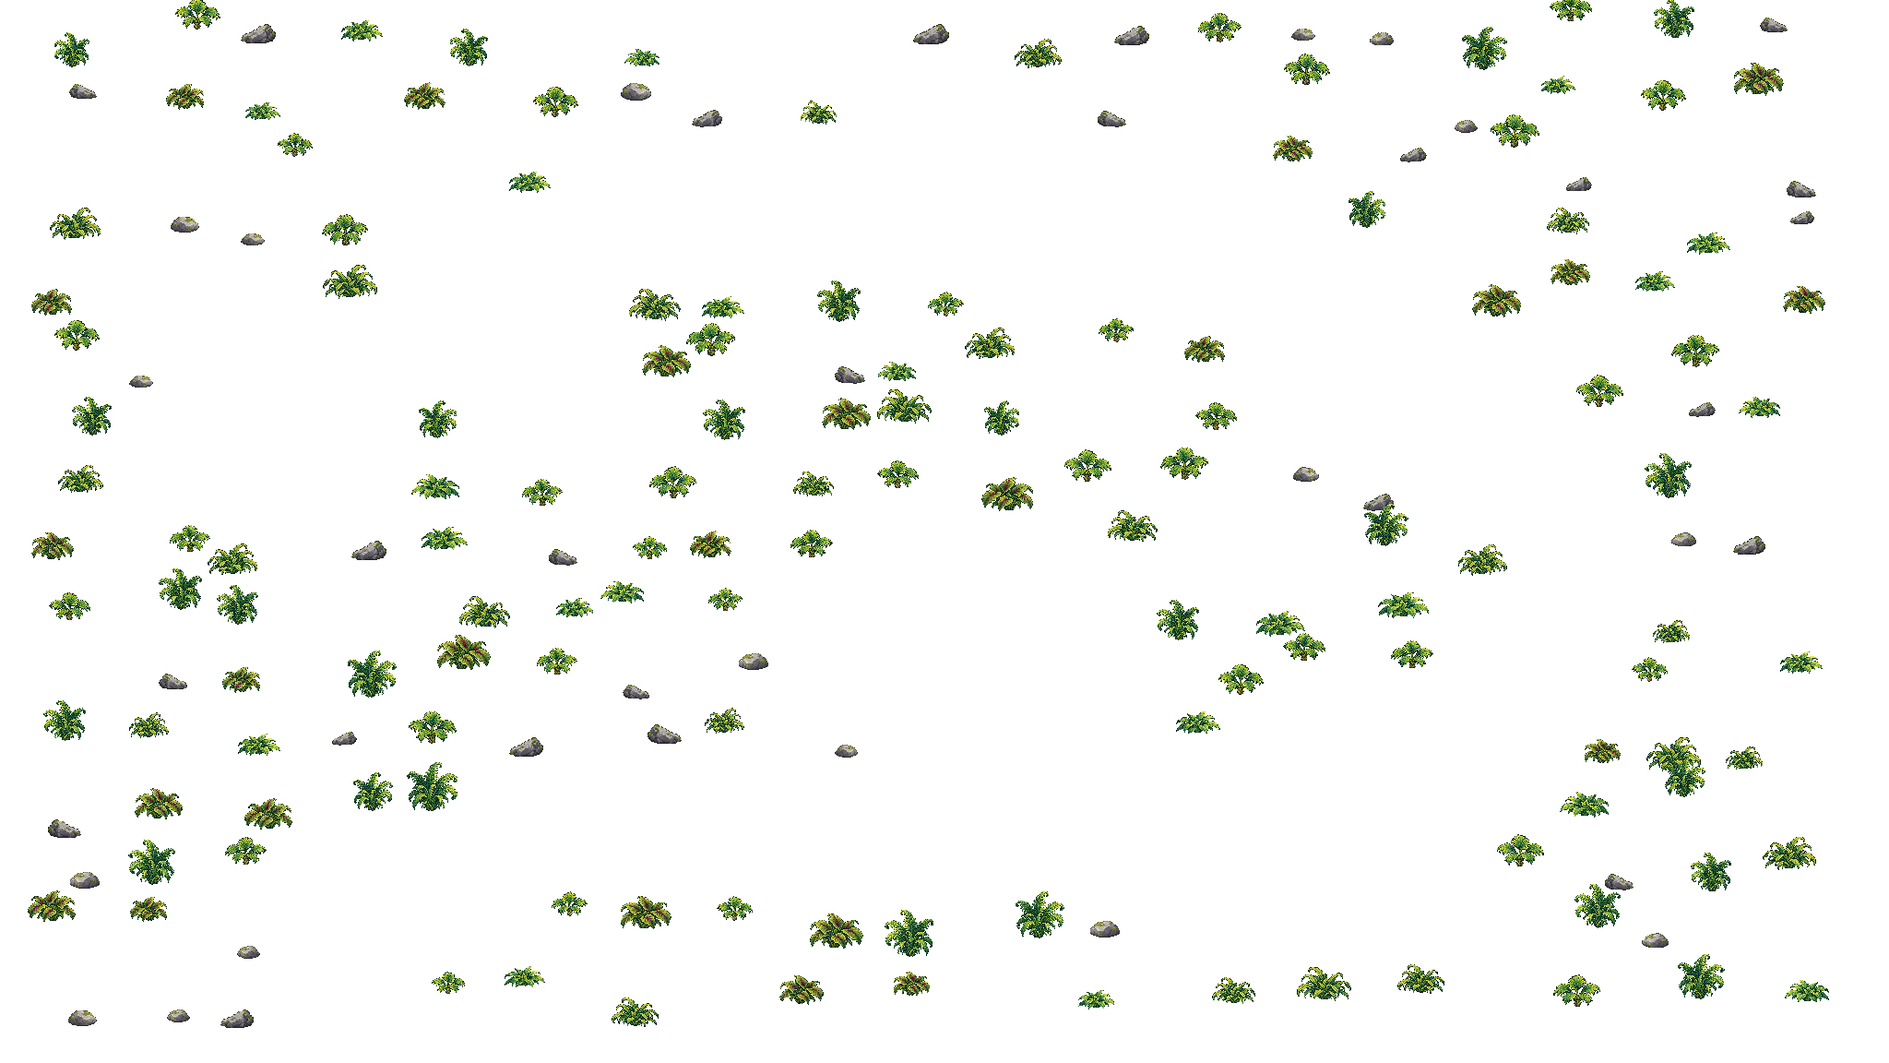
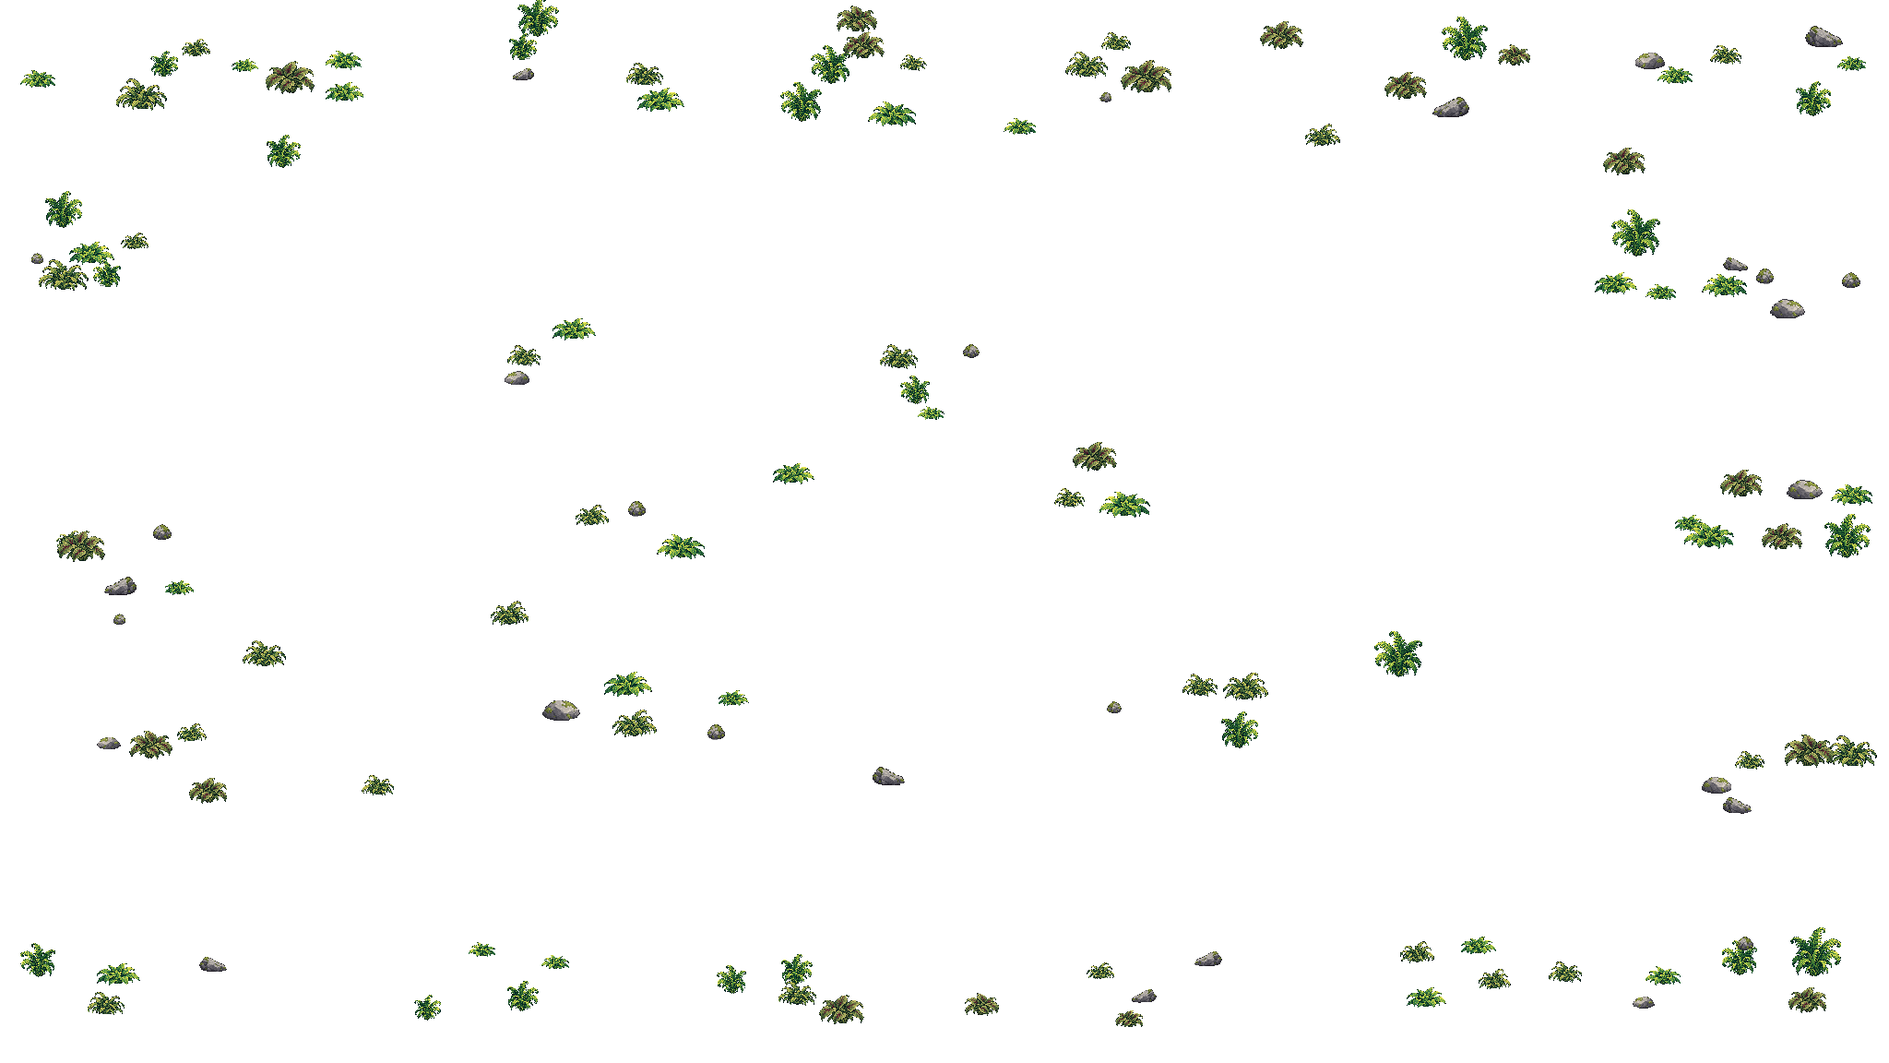
feat: humanizar direção visual do bioma

diff --git a/index.html b/index.html
@@ -8,8 +8,8 @@
     <meta name="description" content="Ajude o Sapo do Chapéu de Palha a atravessar quatro regiões da manhã, saltar obstáculos e capturar besouros e abelhas antes que eles se aproximem.">
     <link rel="icon" type="image/png" href="assets/img/sapo-capa.png">
     <link rel="preload" as="image" href="assets/img/menu-floresta-amanhecer-v1.png">
-    <link rel="stylesheet" href="assets/css/style.css?v=123">
-    <script src="assets/js/script.js?v=123" defer></script>
+    <link rel="stylesheet" href="assets/css/style.css?v=124">
+    <script src="assets/js/script.js?v=124" defer></script>
     <title>Sapo do Chapéu de Palha — Beta</title>
 </head>
 <body class="is-app-loading has-indie-intro">
@@ -44,13 +44,13 @@
         <div class="indie-intro__panel">
             <div class="indie-intro__pixels" aria-hidden="true"><i></i><i></i><i></i><i></i></div>
             <p class="indie-intro__eyebrow">Antes de começar</p>
-            <h1 id="indie-intro-title">Um jogo indie.<br>Feito com cuidado.</h1>
+            <h1 id="indie-intro-title">Um jogo feito<br>detalhe por detalhe.</h1>
             <div class="indie-intro__copy" id="indie-intro-copy">
-                <p>Hoje parece que tudo é feito por IA: alguém escreve um prompt, publica e logo deixa o projeto para trás. <strong>Este jogo não nasceu assim.</strong></p>
-                <p>A <strong>Natanashi Studios</strong> é o codinome de uma pequena startup indie que nasce deste projeto. Por trás dela existe uma paixão por programação cultivada desde 2018, praticando Python e JavaScript e criando sites e jogos simples.</p>
-                <p>A IA ajuda a construir este jogo, mas cada código, personagem, cenário e animação é revisto, testado e ajustado com muita dedicação. Ele não é só um jogo gerado por IA para tentar ganhar dinheiro.</p>
-                <aside>Claro que eu também quero ganhar dinheiro com ele, se for possível — ninguém vive só de capturar besouros, né? <span>kkkkk</span></aside>
-                <p>Mas, antes de qualquer coisa, este projeto existe por diversão, curiosidade e gostos certamente humanos.</p>
+                <p><strong>Sapo do Chapéu de Palha</strong> começou como uma ideia pequena e foi crescendo entre testes, erros, desenhos refeitos e muitas partidas.</p>
+                <p><strong>Natanashi Studios</strong> é o nome que reúne esse trabalho. A programação faz parte dessa história desde 2018, começando com Python, JavaScript, sites e jogos simples.</p>
+                <p>Ferramentas de IA também ajudam no processo, mas não decidem o jogo. Código, personagens, cenários, animações e dificuldade são revistos e ajustados até combinarem com a direção do projeto.</p>
+                <aside>E se um dia o jogo ajudar a pagar as contas, ótimo. Até um sapo aventureiro precisa de orçamento.</aside>
+                <p>Por enquanto, a prioridade é fazer algo pessoal, divertido e cada vez melhor de jogar.</p>
             </div>
             <button class="indie-intro__continue" id="indie-intro-continue" type="button" onclick="closeIndieIntro()" disabled>Carregando...</button>
         </div>
@@ -202,7 +202,7 @@
                             <nav class="main-menu-list" aria-label="Menu principal">
                                 <button class="wood-button wood-button--primary" type="button" data-menu-target="play" onclick="showMenuScreen('play')">
                                     <span class="wood-button__mark" aria-hidden="true">▶</span>
-                                    <span><strong>Jogar</strong><small>Começar uma nova jornada</small></span>
+                                    <span><strong>Jogar</strong><small>Escolher um diário e continuar</small></span>
                                 </button>
                                 <button class="wood-button" type="button" data-menu-target="profile" onclick="showMenuScreen('profile')">
                                     <span class="wood-button__mark" aria-hidden="true">●</span>
@@ -214,7 +214,7 @@
                                 </button>
                                 <button class="wood-button" type="button" data-menu-target="credits" onclick="showMenuScreen('credits')">
                                     <span class="wood-button__mark" aria-hidden="true">★</span>
-                                    <span><strong>Créditos</strong><small>Quem está construindo esta aventura</small></span>
+                                    <span><strong>Créditos</strong><small>Equipe, ferramentas e versão atual</small></span>
                                 </button>
                             </nav>
                         </section>
@@ -228,7 +228,7 @@
                                 <article class="credits-studio">
                                     <small>Criação e direção</small>
                                     <strong>Natanashi Studios</strong>
-                                    <p>Um projeto indie brasileiro construído com programação, testes, ajustes visuais e muita vontade de criar um universo próprio.</p>
+                                    <p>Um projeto indie brasileiro em desenvolvimento, testado diretamente no navegador e ajustado versão por versão.</p>
                                 </article>
                                 <div class="credits-grid">
                                     <article><span>Desenvolvimento</span><strong>HTML, CSS e JavaScript</strong></article>
@@ -242,7 +242,7 @@
 
                         <section class="menu-screen" data-menu-screen="play" aria-labelledby="play-menu-title" hidden>
                             <div class="menu-section-heading">
-                                <span>Escolha seu caminho</span>
+                                <span>Seleção de modo</span>
                                 <h2 id="play-menu-title">Modos de jogo</h2>
                             </div>
                             <div class="mode-grid">
@@ -292,7 +292,7 @@
                             <div class="menu-section-heading character-heading">
                                 <span>Novo diário</span>
                                 <h2 id="character-creator-title">Crie seu viajante</h2>
-                                <p>Dê um nome ao sapinho e escolha as cores que acompanharão esta história.</p>
+                                <p>Dê um nome ao sapinho e escolha as cores do corpo e da língua.</p>
                             </div>
                             <form class="character-creator" id="character-creator-form" novalidate>
                                 <div class="skin-preview character-preview" aria-label="Prévia do personagem">
@@ -367,8 +367,8 @@
                                                 <image href="assets/img/mapa-textura-estrada-v1.png" width="5.4" height="5.4" preserveAspectRatio="xMidYMid slice"></image>
                                             </pattern>
                                         </defs>
-                                        <path class="world-route__edge" d="M 18 90 C 21 86 25 82 29 80 C 41 78 56 83 68 82 C 77 78 82 68 84 57 C 83 45 76 33 68 27 C 57 21 47 19 37 20 C 27 24 19 34 13 46"></path>
-                                        <path class="world-route__trail" stroke="url(#world-road-texture)" d="M 18 90 C 21 86 25 82 29 80 C 41 78 56 83 68 82 C 77 78 82 68 84 57 C 83 45 76 33 68 27 C 57 21 47 19 37 20 C 27 24 19 34 13 46"></path>
+                                        <path class="world-route__edge" d="M 18 90 C 21 86 25 82 29 80 C 38 77 46 83 55 80 C 60 79 65 85 68 82 C 76 78 80 69 84 57 C 86 49 79 40 78 36 C 76 31 72 28 68 27 C 60 22 53 22 47 21 C 43 20 40 18 37 20 C 30 22 28 28 23 32 C 19 36 17 42 13 46"></path>
+                                        <path class="world-route__trail" stroke="url(#world-road-texture)" d="M 18 90 C 21 86 25 82 29 80 C 38 77 46 83 55 80 C 60 79 65 85 68 82 C 76 78 80 69 84 57 C 86 49 79 40 78 36 C 76 31 72 28 68 27 C 60 22 53 22 47 21 C 43 20 40 18 37 20 C 30 22 28 28 23 32 C 19 36 17 42 13 46"></path>
                                     </svg>
 
                                     <span class="world-prop world-prop--plant world-prop--plant-small" style="--prop-x: 10%; --prop-y: 18%; --prop-width: 6.6%; --prop-depth: 18;"><img data-map-src="assets/img/mapa-planta-rasteira-v1.png" alt="" draggable="false"></span>

diff --git a/assets/css/style.css b/assets/css/style.css
@@ -2280,14 +2280,14 @@ kbd {
 }
 
 .world-route__edge {
-    stroke: #55743a;
-    stroke-width: 72px;
-    opacity: 0.82;
+    stroke: #5d7840;
+    stroke-width: 70px;
+    opacity: 0.72;
 }
 
 .world-route__trail {
-    stroke-width: 54px;
-    filter: drop-shadow(0 3px 0 rgba(72, 70, 33, 0.22));
+    stroke-width: 52px;
+    filter: drop-shadow(0 2px 0 rgba(72, 70, 33, 0.2));
 }
 
 .world-prop {

diff --git a/DESIGN.md b/DESIGN.md
@@ -85,11 +85,11 @@ Desktop uses a restrained soft rectangle around the stage; the mobile stage reac
 
 All actions use native buttons with hover, active, focus-visible, disabled, and touch states. The overlay preserves one primary action and is reused for pause without resetting the current run. Mobile keeps both Jump and Tongue targets at least 60px tall. The tongue is a separate transparent overlay containing only the tongue, anchored by shared mouth coordinates and rendered behind the frog. Activating it temporarily swaps the runner to a same-scale, mouth-open pose, then returns to the current motion sheet. Captured flying insects lock to the exact hit point on the extended tongue, remain there during its held beat, follow the tongue geometry only when it retracts, and disappear at the mouth under a single bright swallowing accent. On the ground, the frog deliberately runs upright like a cartoon person; its professional eight-frame cycle follows contact, down, passing and up poses twice, with opposite arms and legs. A player-triggered jump changes to natural frog biomechanics and selects dedicated takeoff, rise, apex, fall and landing poses according to vertical velocity. All sheets preserve the same identity, scale, white muzzle, eye, nose and straw hat. Flying beetles are hostile and capturable: golden groups keep a compact flight line while teal-violet beetles traverse a broad readable lane from the upper sky to just above the track. Some teal-violet beetles use a triangular up-and-down route with a restrained horizontal drift, forming a visible zigzag that still leaves enough reaction time for jumping, ducking under or attacking with the tongue. Golden-brown bees are single capturable hunters: they approach in a high zigzag, display a bright 440ms targeting pulse, then commit to a fast diagonal sting aimed at the frog's previous position. The dive is fixed once launched, so jumping or landing remains a fair dodge, and obstacle spawning is delayed around the encounter. Ground beetles are black, wingless, fast four-frame obstacles that must be jumped and never react to the tongue. Score blocks reserve stable width to prevent movement. Compact mossy rocks, wooden wheels and ground beetles share one runtime obstacle system but keep distinct silhouettes, forgiving collision insets, speeds and point values. Static rocks move at exactly the same rate as the ground texture; wheels and ground beetles add visible locomotion. Moving moss platforms are non-damaging surfaces: the frog can land on their top, ride briefly and jump again. The complete route lasts 120 seconds, changes regions at fixed elapsed-time milestones and raises speed and spawn pressure gradually under capped limits so every obstacle remains avoidable. During the final stretch, normal spawning gives way to the Super Abelha Monstro: a crownless, dark orange-and-black pixel-art boss with six hooked legs, battered wings and a large stinger. She releases ordinary diving bees while flying high, then visibly tires and descends into tongue range. Only those low tired windows accept damage, the dedicated compact health bar reports five required hits, and every successful hit wakes her into a short visible rise before she resumes the high-flight attack cycle. After the third hit she flashes an anger warning, dives low with her stinger in a jump-avoidable special attack, returns to her high position and resumes releasing bees. Defeating her is required to complete the route.
 
-The opening navigation has four destinations: Play, Profile, Game Settings and Credits. Appearance is no longer a detached main-menu destination; it belongs to creating a story character. Profile provides an offline-editable player name with device-local persistence while account registration, login and synchronization are clearly labeled as future work. Play leads through game mode selection, the character diaries and then an explorable angled overworld map. The story screen has two explicit categories: the normal Phase Map and a temporary Test Area that launches directly into the current Super Bee boss encounter without removing or changing the normal route. The overworld is nine viewport-sized grass areas arranged as a continuous 3×3 field, with a camera that follows the frog inside the larger space. The frog preserves the same perceived walking speed, so the expanded route takes roughly fifty percent longer to cross. The ground uses a restrained perspective plane while every character and major prop stays as an upright 2D pixel sprite, creating a readable 2.5D console-map view instead of a flat overhead board. A continuous warm dirt trail begins by the player's arrival point and links all six phase seals in order. Its restrained mossy edge blends into the grass, while a single optimized decorative ground-cover layer fills the land beyond the trail with many small plants and stones without adding per-frame animation cost. Larger individually placed plants and rocks remain outside the trail with true depth and collision. The first biome uses seven plant silhouettes instead of trees, ranging from low grass and broad caladium leaves through curled fern, tall foliage and a young palm, while every major rock remains a separate simple object in one of three shapes. Instances stand separately above the grass with a compact footprint shadow and real collision. Their depth and the frog's depth share the same y-based scale, so walking behind a major plant correctly hides the frog while walking below it places the frog in front. Keyboard, touch pad and tap-to-walk movement slides around those footprints instead of crossing them. The overworld frog reuses the exact canonical eight-frame `sapo-corrida-bipede-v3.png` artwork at a calmer map cadence rather than introducing a second character design. Six golden phase seals form a loose route through the forest. Only "Rota da Manhã" is playable and remains one complete continuous level containing all four internal regions; the other five seals expose their names and the explicit status "Em construção · em breve". A small parchment phase card stays hidden until the frog approaches any seal, then opens beside it; difficulty and entry actions appear only for the playable seal. Only Story Mode is playable. Competitive and Online clearly communicate their construction state. A single transparent pixel-art Museum landmark occupies its own central clearing away from the dirt trail, with collision and the same depth rule as other major props. Approaching it changes the nearby card into an entrance action; inside, a documentary-style bestiary explains the names, behavior and encounter pattern of the five current creatures. Back returns directly to the map. The tongue action has a strict three-second recharge after every strike; its button becomes temporarily unavailable and shows a small circular 3–2–1 second counter so touch and keyboard players receive the same clear timing feedback.
+The opening navigation has four destinations: Play, Profile, Game Settings and Credits. Appearance is no longer a detached main-menu destination; it belongs to creating a story character. Profile provides an offline-editable player name with device-local persistence while account registration, login and synchronization are clearly labeled as future work. Play leads through game mode selection, the character diaries and then an explorable angled overworld map. The story screen has two explicit categories: the normal Phase Map and a temporary Test Area that launches directly into the current Super Bee boss encounter without removing or changing the normal route. The overworld is nine viewport-sized grass areas arranged as a continuous 3×3 field, with a camera that follows the frog inside the larger space. The frog preserves the same perceived walking speed, so the expanded route takes roughly fifty percent longer to cross. The ground uses a restrained perspective plane while every character and major prop stays as an upright 2D pixel sprite, creating a readable 2.5D console-map view instead of a flat overhead board. A continuous warm dirt trail begins by the player's arrival point and links all six phase seals in order. Its route bends vary gently rather than following one mechanically smooth curve, and its mossy edge is narrow enough to merge with the grass. A single optimized ground-cover layer gathers small plants and stones into deliberately uneven colonies with quiet gaps between them, avoiding both a repeated grid and visual confetti without adding per-frame animation cost. Larger individually placed plants and rocks remain outside the trail with true depth and collision. The first biome uses seven plant silhouettes instead of trees, ranging from low grass and broad caladium leaves through curled fern, tall foliage and a young palm, while every major rock remains a separate simple object in one of three shapes. Instances stand separately above the grass with a compact footprint shadow and real collision. Their depth and the frog's depth share the same y-based scale, so walking behind a major plant correctly hides the frog while walking below it places the frog in front. Keyboard, touch pad and tap-to-walk movement slides around those footprints instead of crossing them. The overworld frog reuses the exact canonical eight-frame `sapo-corrida-bipede-v3.png` artwork at a calmer map cadence rather than introducing a second character design. Six golden phase seals form a loose route through the forest. Only "Rota da Manhã" is playable and remains one complete continuous level containing all four internal regions; the other five seals expose their names and the explicit status "Em construção · em breve". A small parchment phase card stays hidden until the frog approaches any seal, then opens beside it; difficulty and entry actions appear only for the playable seal. Only Story Mode is playable. Competitive and Online clearly communicate their construction state. A single transparent pixel-art Museum landmark occupies its own central clearing away from the dirt trail, with collision and the same depth rule as other major props. Approaching it changes the nearby card into an entrance action; inside, a documentary-style bestiary explains the names, behavior and encounter pattern of the five current creatures. Back returns directly to the map. The tongue action has a strict three-second recharge after every strike; its button becomes temporarily unavailable and shows a small circular 3–2–1 second counter so touch and keyboard players receive the same clear timing feedback.
 
 The full-screen overworld keeps only two persistent corner actions. Both are native accessible buttons whose complete appearance comes from dedicated transparent raster pixel art: a wooden doorway with a left arrow returns to the main menu, and a leather field pack opens inventory and journey status. CSS may scale, focus, brighten or press these images, but must not redraw their frames or icons with gradients, rounded boxes or pseudo-element illustration.
 
-Before the navigation, a text-only indie note establishes authorship without introducing off-style illustration. It uses the same pixel typography, block borders, parchment, forest green and straw gold as the game UI. The message presents Natanashi Studios only as the codename of the small indie startup building the game, plainly explains that AI supports the work while code, characters, environments and animation receive human review, connects the project to programming practice since 2018, and preserves one self-aware joke about hoping the game can also earn money. The tone is candid, playful and human rather than promotional, without a sentimental sign-off.
+Before the navigation, a text-only indie note establishes authorship without introducing off-style illustration. It uses the same pixel typography, block borders, parchment, forest green and straw gold as the game UI. The message presents Natanashi Studios as the name that gathers the project, connects it to programming practice since 2018 and mentions AI once as one tool in a larger reviewed process instead of opening with a defensive argument. The joke about hoping the game can eventually help pay the bills stays brief and grounded. The tone is candid, specific and personal rather than promotional, without a sentimental sign-off.
 
 Loading is an explicit part of the game flow rather than an invisible delay. On first launch, a full-screen pixel-art morning scene reports real progress while essential sprites, scenery, the local font and audio are prepared; the authorship note and menu remain inert until that work settles. Entering a run, boss test or Rubro duel uses a shorter in-stage transition that disables every gameplay and overworld control, verifies the assets required by that encounter, and only starts the simulation clock after the loader leaves. Loading screens reuse the canonical runner, forest, parchment and restrained green-gold palette, expose progress and status text to assistive technology, tolerate individual asset failures, and never trap the player indefinitely on a slow connection.
 
